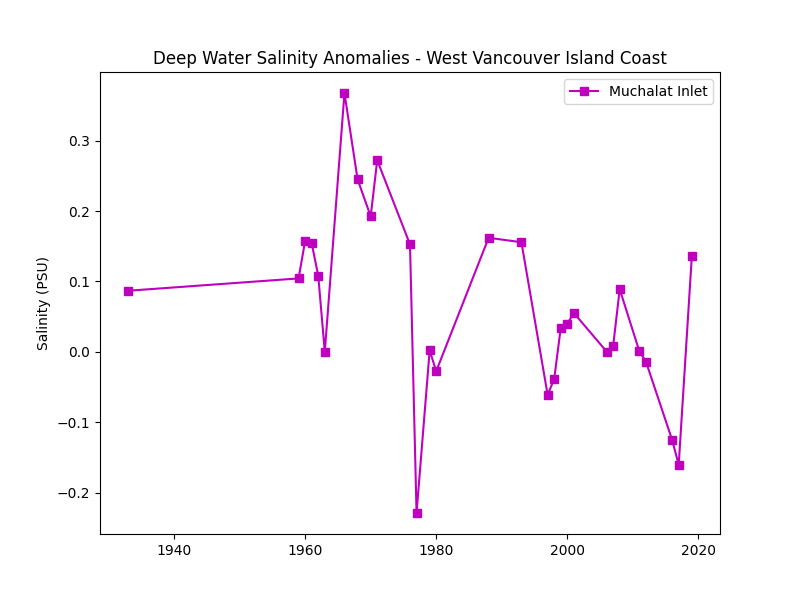
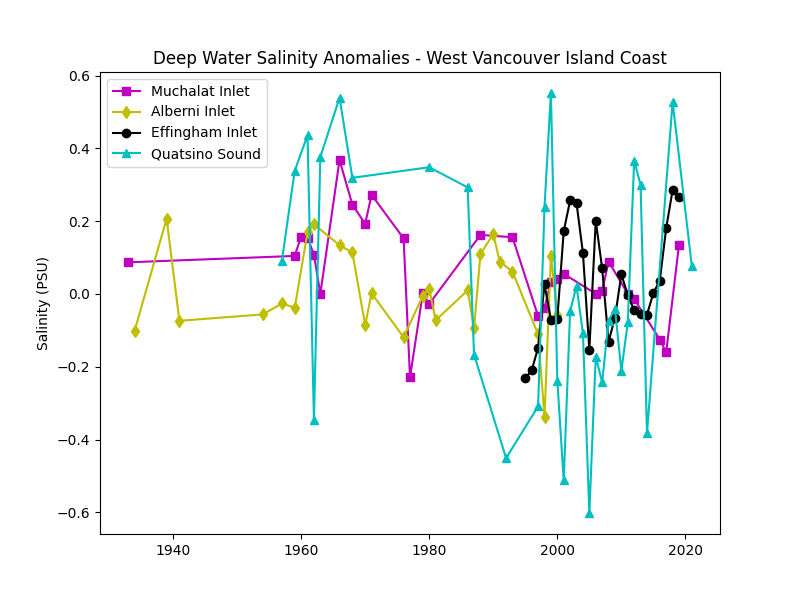
add Vancouver Island inlets
- Alberni Inlet
- Effingham Inlet
- Quatsino Sound

diff --git a/get-maps.py b/get-maps.py
@@ -31,6 +31,9 @@ maps = [
     Inlet(boundaries=[-130.2, 54.8, -129.7, 55.4], dimensions="500x700", name="Observatory Inlet"),
     Inlet(boundaries=[-126.7, 49.5, -126.0, 49.7], dimensions="700x400", name="Muchalat Inlet"),
     Inlet(boundaries=[-123.4, 49.3, -123.2, 49.7], dimensions="500x700", name="Howe Sound"),
+    Inlet(boundaries=[-125.1, 48.8, -124.6, 49.3], dimensions="500x700", name="Alberni Inlet"),
+    Inlet(boundaries=[-125.3, 48.9, -125.0, 49.2], dimensions="500x500", name="Effingham Inlet"),
+    Inlet(boundaries=[-128.1, 50.4, -127.5, 50.6], dimensions="700x500", name="Quatsino Sound"),
 ]
 
 mapbox_url = "https://api.mapbox.com/styles/v1/cyborgsphinx/{}/static/{}/{}"
